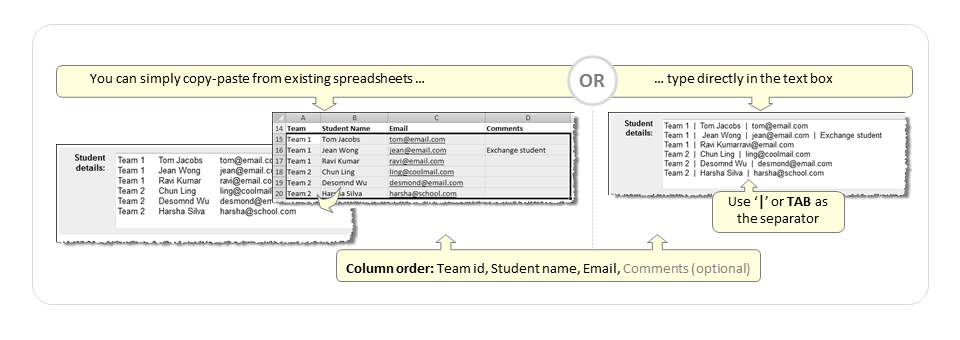
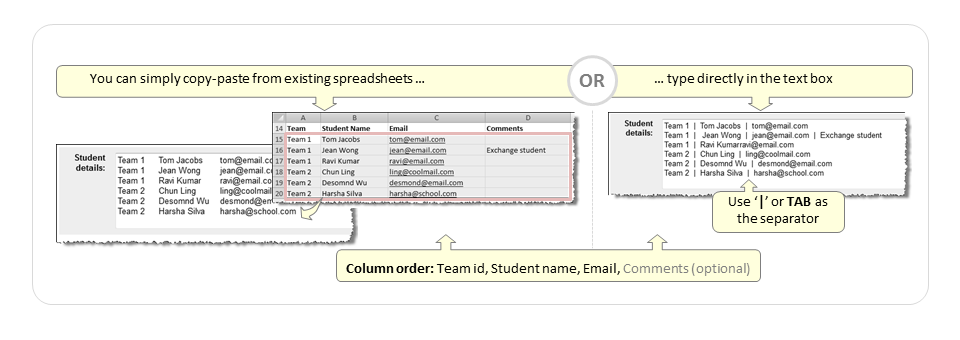
Starting Issue752 [Sample spreadsheet should not contain a header row] Update Issue 752 Also updated a json file that had some stale data.

Changed region(s): [[0.2812, 0.5588, 0.5938, 0.6471], [0.2812, 0.3824, 0.5938, 0.4118]]

diff --git a/src/test/java/teammates/test/cases/InstructorCourseEnrollPageUiTest.java b/src/test/java/teammates/test/cases/InstructorCourseEnrollPageUiTest.java
@@ -78,7 +78,7 @@ public class InstructorCourseEnrollPageUiTest extends BaseTestCase {
 		______TS("Check sample spreadsheet link");
 		
 		String spreadSheetLink = bi.getElementRelativeHref(By.id("spreadsheet_download"));
-		bi.downloadAndVerifyFile(spreadSheetLink,"b695796098e4714890d7f0f94db0e164361ef599");
+		bi.downloadAndVerifyFile(spreadSheetLink,"B2F8A93F24ACAC5713BCBC42DAF1FDA59F7AE04B");
 		
 		______TS("failure case - no students data");
 		
